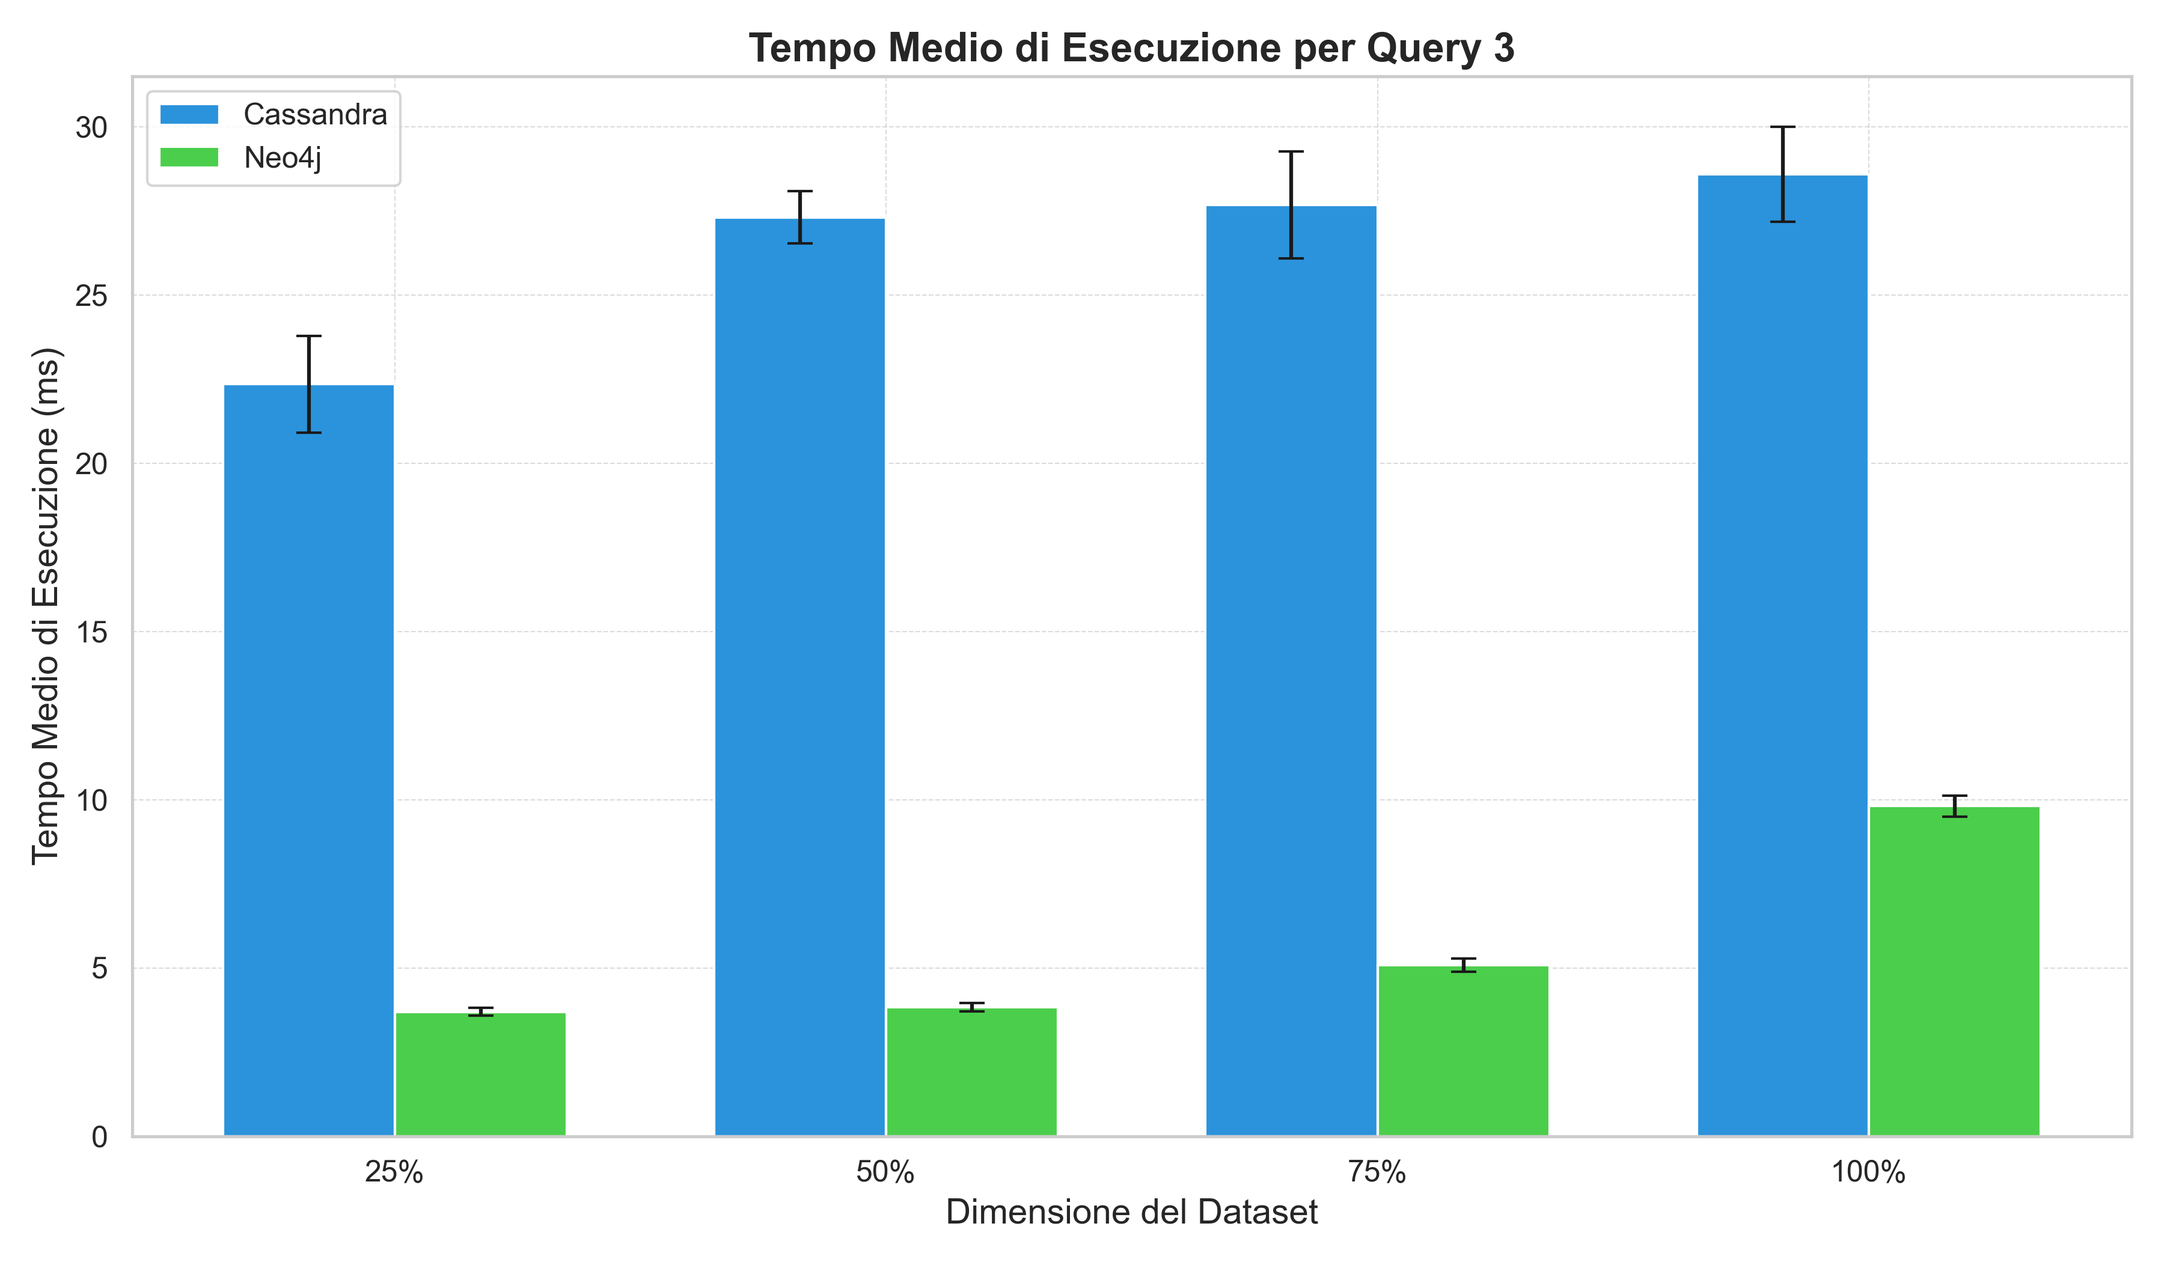
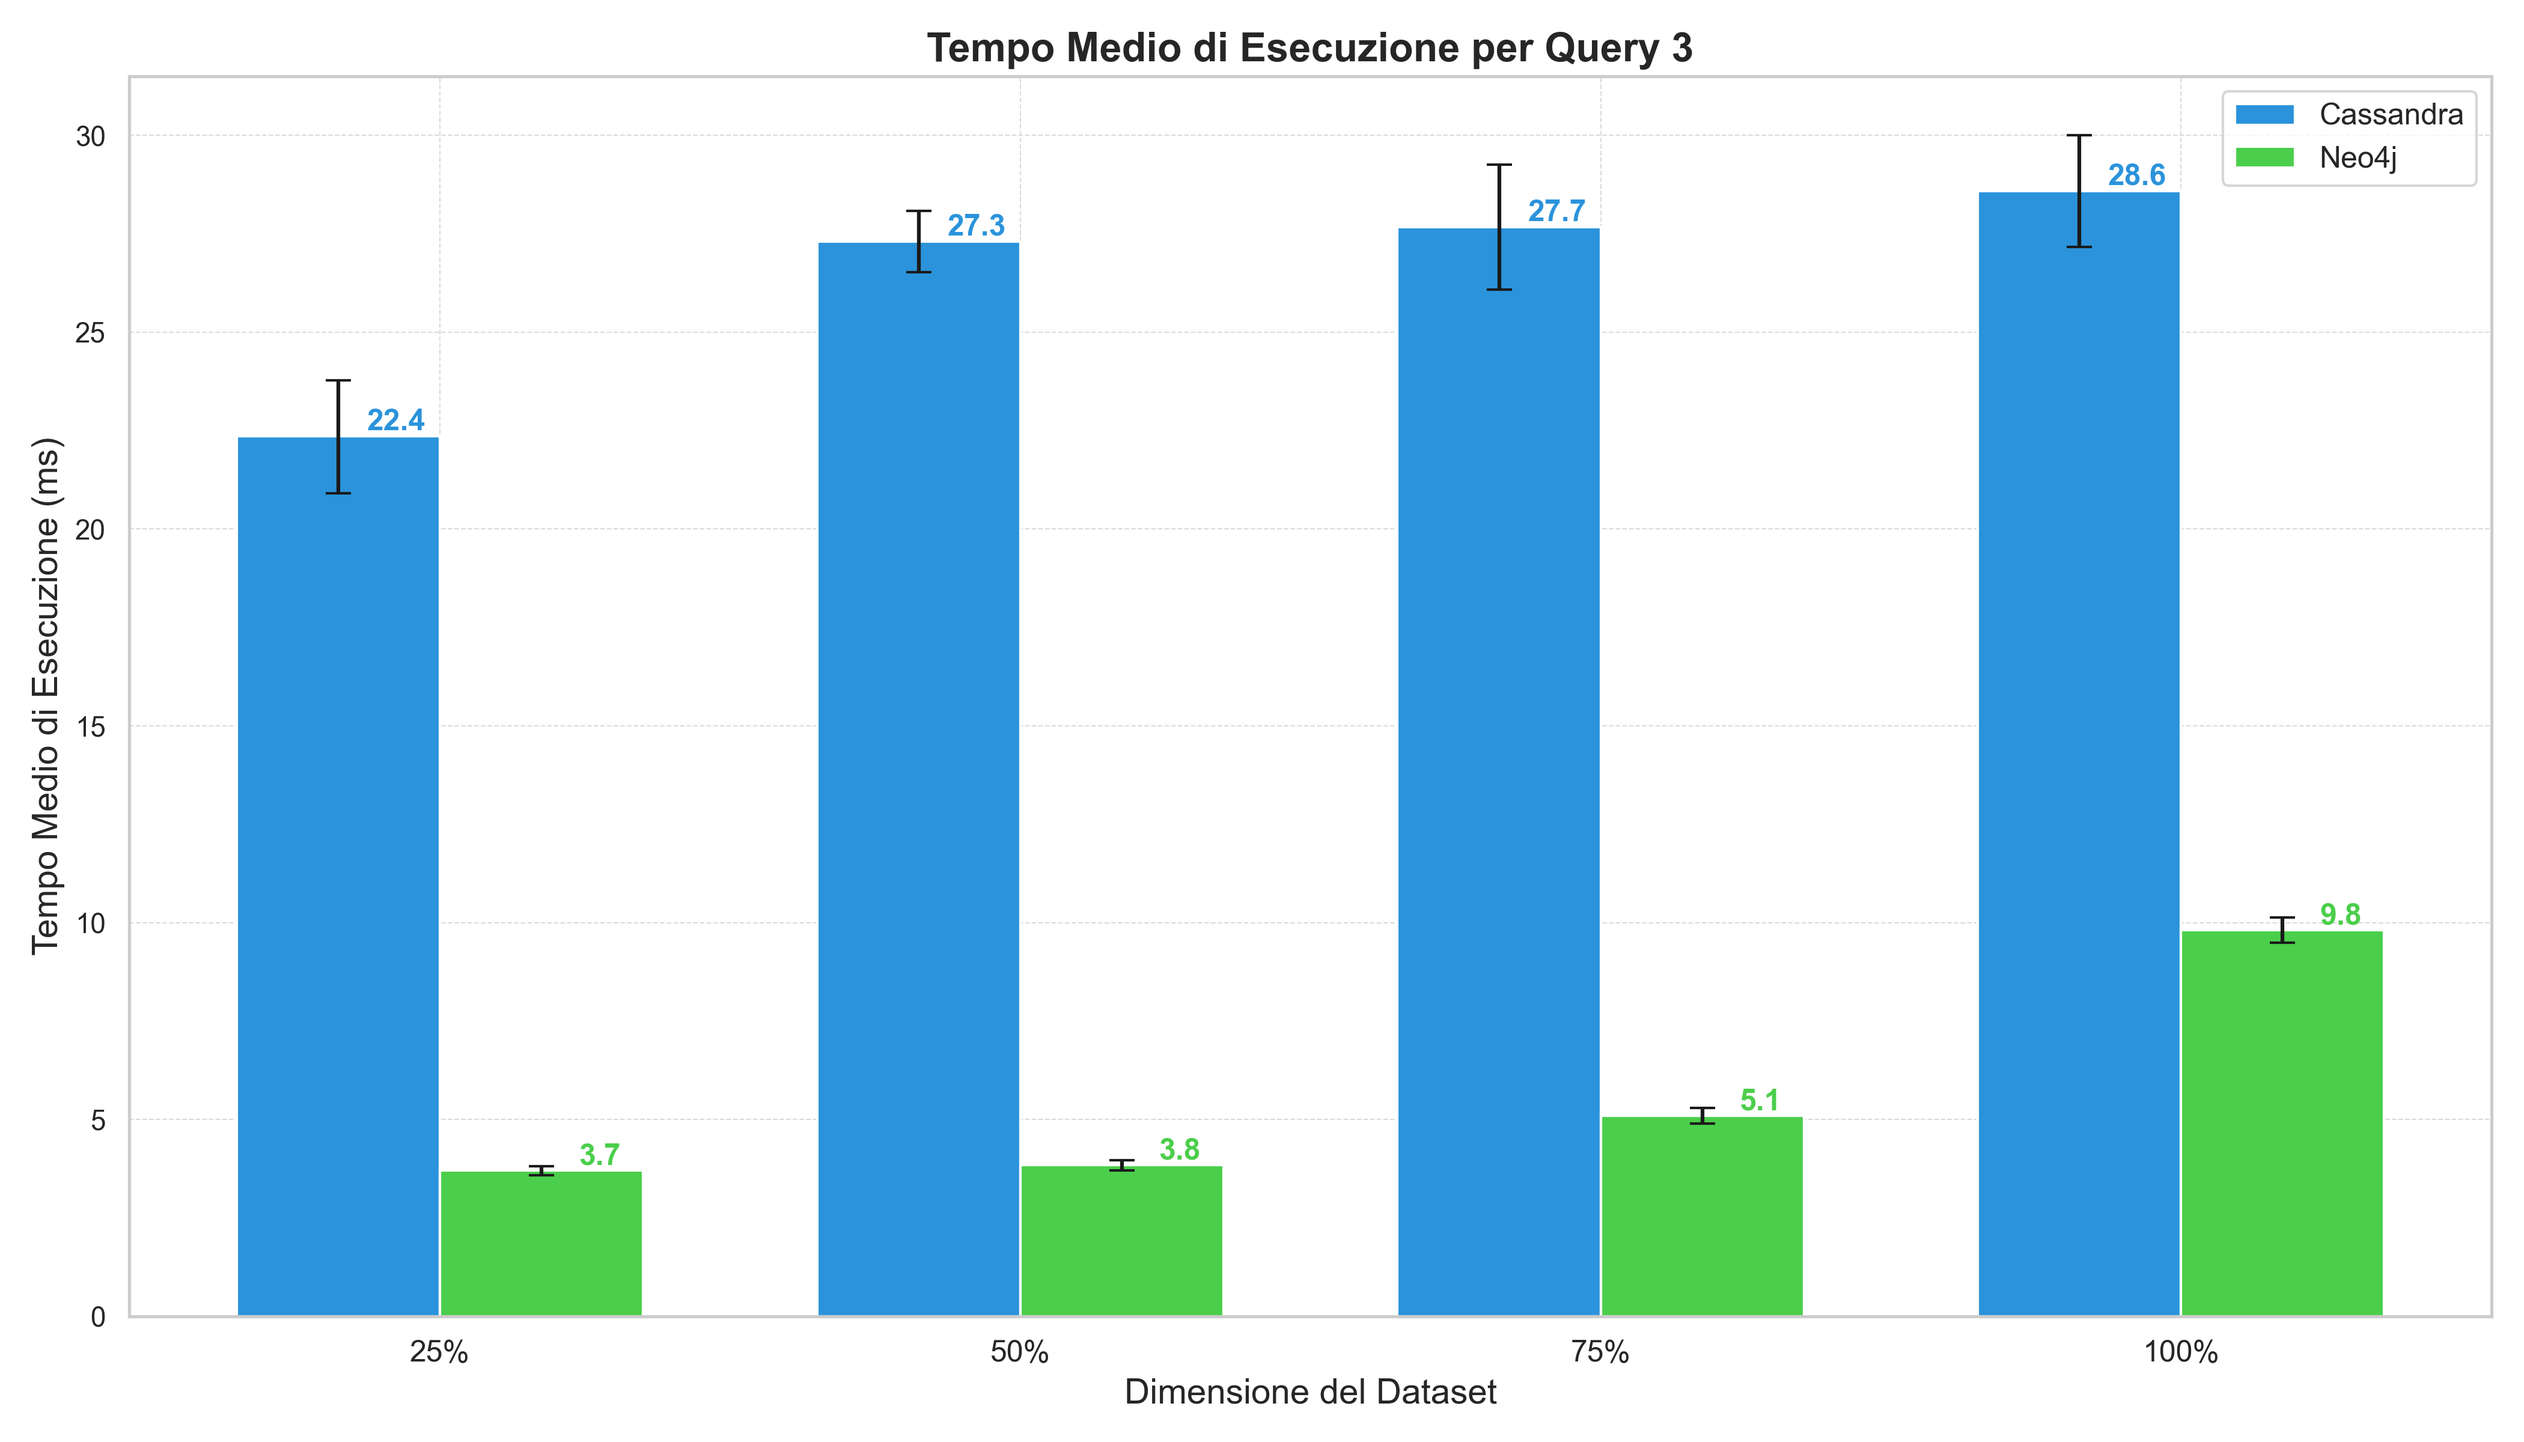
grafico

diff --git a/Histograms/GenerateHistograms.py b/Histograms/GenerateHistograms.py
@@ -11,12 +11,12 @@ sns.set(style="whitegrid")
 # Definisci i percorsi dei file CSV per i dati di Cassandra e Neo4j
 cassandra_csv_path = [
     "Cassandra/ResponseTimes/cassandra_first_execution.csv",
-    "Cassandra/ResponseTimes/cassandra_100_avg_execution.csv",  # Modificato a 100 esecuzioni
+    "Cassandra/ResponseTimes/cassandra_100_avg_execution.csv",
 ]
 
 neo4j_csv_paths = [
     "Neo4j/ResponseTimes/neo4j_first_execution.csv",
-    "Neo4j/ResponseTimes/neo4j_100_avg_execution.csv",  # Modificato a 100 esecuzioni
+    "Neo4j/ResponseTimes/neo4j_100_avg_execution.csv",
 ]
 
 # Controlla se i file esistono
@@ -26,9 +26,9 @@ for path in cassandra_csv_path + neo4j_csv_paths:
 
 # Carica i dati dai file CSV
 data_cassandra_first_execution = pd.read_csv(cassandra_csv_path[0], sep=',')
-data_cassandra_avg_100 = pd.read_csv(cassandra_csv_path[1], sep=',')  # Modificato a 100 esecuzioni
+data_cassandra_avg_100 = pd.read_csv(cassandra_csv_path[1], sep=',')
 data_neo4j_first_execution = pd.read_csv(neo4j_csv_paths[0], sep=',')
-data_neo4j_avg_100 = pd.read_csv(neo4j_csv_paths[1], sep=',')  # Modificato a 100 esecuzioni
+data_neo4j_avg_100 = pd.read_csv(neo4j_csv_paths[1], sep=',')
 
 # Definisci le dimensioni del dataset e le query da analizzare
 dataset_sizes = ['25%', '50%', '75%', '100%']
@@ -54,7 +54,7 @@ for query in queries:
     data_neo4j_query_avg_100 = data_neo4j_avg_100[data_neo4j_avg_100['Query'] == query]
 
     # Crea il primo grafico: Tempo di Prima Esecuzione
-    plt.figure(figsize=(12, 7))
+    fig, ax = plt.subplots(figsize=(14, 8))
     bar_width = 0.35
     index = np.arange(len(dataset_sizes))
 
@@ -69,16 +69,36 @@ for query in queries:
     ]
 
     # Crea i grafici a barre per Cassandra e Neo4j
-    plt.bar(index - bar_width/2, values_cassandra_first_execution, bar_width, label='Cassandra', color=color_cassandra)
-    plt.bar(index + bar_width/2, values_neo4j_first_execution, bar_width, label='Neo4j', color=color_neo4j)
+    bars_cassandra = ax.bar(index - bar_width/2, values_cassandra_first_execution, bar_width, label='Cassandra', color=color_cassandra)
+    bars_neo4j = ax.bar(index + bar_width/2, values_neo4j_first_execution, bar_width, label='Neo4j', color=color_neo4j)
 
-    plt.xlabel('Dimensione del Dataset', fontsize=14)
-    plt.ylabel('Tempo di Esecuzione (ms)', fontsize=14)
-    plt.title(f'Tempo di Prima Esecuzione per {query}', fontsize=16, fontweight='bold')
-    plt.xticks(index, dataset_sizes, fontsize=12)
-    plt.yticks(fontsize=12)
-    plt.legend(fontsize=12)
-    plt.grid(True, which='both', linestyle='--', linewidth=0.5, alpha=0.7)
+    ax.set_xlabel('Dimensione del Dataset', fontsize=14)
+    ax.set_ylabel('Tempo di Esecuzione (ms)', fontsize=14)
+    ax.set_title(f'Tempo di Prima Esecuzione per {query}', fontsize=16, fontweight='bold')
+    ax.set_xticks(index)
+    ax.set_xticklabels(dataset_sizes, fontsize=12)
+    ax.legend(fontsize=12)
+    ax.grid(True, which='both', linestyle='--', linewidth=0.5, alpha=0.7)
+
+    # Aggiungi i valori sopra le barre per la prima esecuzione
+    for bar in bars_cassandra:
+        yval = bar.get_height()
+        ax.text(
+            bar.get_x() + bar.get_width()/2,
+            yval,  # Posizionamento direttamente sopra la barra
+            f'{yval:.1f}',  # Mostra il valore con una cifra decimale
+            ha='center', va='bottom', fontsize=12, fontweight='bold', color=color_cassandra
+        )
+
+    for bar in bars_neo4j:
+        yval = bar.get_height()
+        ax.text(
+            bar.get_x() + bar.get_width()/2,
+            yval,  # Posizionamento direttamente sopra la barra
+            f'{yval:.1f}',  # Mostra il valore con una cifra decimale
+            ha='center', va='bottom', fontsize=12, fontweight='bold', color=color_neo4j
+        )
+
     plt.tight_layout()
 
     # Salva e mostra il grafico
@@ -88,7 +108,7 @@ for query in queries:
     plt.close()
 
     # Crea il secondo grafico: Tempo Medio di Esecuzione con Intervallo di Confidenza
-    plt.figure(figsize=(12, 7))
+    fig, ax = plt.subplots(figsize=(14, 8))
     values_cassandra_avg_100 = [
         data_cassandra_query_avg_100[data_cassandra_query_avg_100['Dataset'] == size]['Average of 100 Executions (ms)'].values[0] 
         for size in dataset_sizes
@@ -119,20 +139,40 @@ for query in queries:
     neo4j_yerr = [np.array([values_neo4j_avg_100[i] - conf_neo4j_min[i], conf_neo4j_max[i] - values_neo4j_avg_100[i]]) for i in range(len(dataset_sizes))]
 
     # Crea i grafici a barre con barre di errore per Cassandra e Neo4j
-    plt.bar(index - bar_width/2, values_cassandra_avg_100, bar_width, yerr=np.array(cassandra_yerr).T, capsize=5, label='Cassandra', color=color_cassandra)
-    plt.bar(index + bar_width/2, values_neo4j_avg_100, bar_width, yerr=np.array(neo4j_yerr).T, capsize=5, label='Neo4j', color=color_neo4j)
+    bars_cassandra = ax.bar(index - bar_width/2, values_cassandra_avg_100, bar_width, yerr=np.array(cassandra_yerr).T, capsize=5, label='Cassandra', color=color_cassandra)
+    bars_neo4j = ax.bar(index + bar_width/2, values_neo4j_avg_100, bar_width, yerr=np.array(neo4j_yerr).T, capsize=5, label='Neo4j', color=color_neo4j)
 
-    plt.xlabel('Dimensione del Dataset', fontsize=14)
-    plt.ylabel('Tempo Medio di Esecuzione (ms)', fontsize=14)
-    plt.title(f'Tempo Medio di Esecuzione per {query}', fontsize=16, fontweight='bold')
-    plt.xticks(index, dataset_sizes, fontsize=12)
-    plt.yticks(fontsize=12)
-    plt.legend(fontsize=12)
-    plt.grid(True, which='both', linestyle='--', linewidth=0.5, alpha=0.7)
+    ax.set_xlabel('Dimensione del Dataset', fontsize=14)
+    ax.set_ylabel('Tempo Medio di Esecuzione (ms)', fontsize=14)
+    ax.set_title(f'Tempo Medio di Esecuzione per {query}', fontsize=16, fontweight='bold')
+    ax.set_xticks(index)
+    ax.set_xticklabels(dataset_sizes, fontsize=12)
+    ax.legend(fontsize=12)
+    ax.grid(True, which='both', linestyle='--', linewidth=0.5, alpha=0.7)
+
+    # Aggiungi i valori sopra le barre per l'esecuzione media
+    for bar in bars_cassandra:
+        yval = bar.get_height()
+        ax.text(
+            bar.get_x() + bar.get_width()/2 + 0.1,  # Posizionamento spostato a destra
+            yval,  # Posizionamento direttamente sopra la barra
+            f'{yval:.1f}',  # Mostra il valore con una cifra decimale
+            ha='center', va='bottom', fontsize=12, fontweight='bold', color=color_cassandra
+        )
+
+    for bar in bars_neo4j:
+        yval = bar.get_height()
+        ax.text(
+            bar.get_x() + bar.get_width()/2 + 0.1,  # Posizionamento spostato a destra
+            yval,  # Posizionamento direttamente sopra la barra
+            f'{yval:.1f}',  # Mostra il valore con una cifra decimale
+            ha='center', va='bottom', fontsize=12, fontweight='bold', color=color_neo4j
+        )
+
     plt.tight_layout()
 
     # Salva e mostra il grafico
-    filename = f'Histograms/Histogram_100_Avg_ExecutionTime_{query}.png'  # Modificato a 100 esecuzioni
+    filename = f'Histograms/Histogram_100_Avg_ExecutionTime_{query}.png'
     plt.savefig(filename, dpi=300)
     plt.show()
     plt.close()
